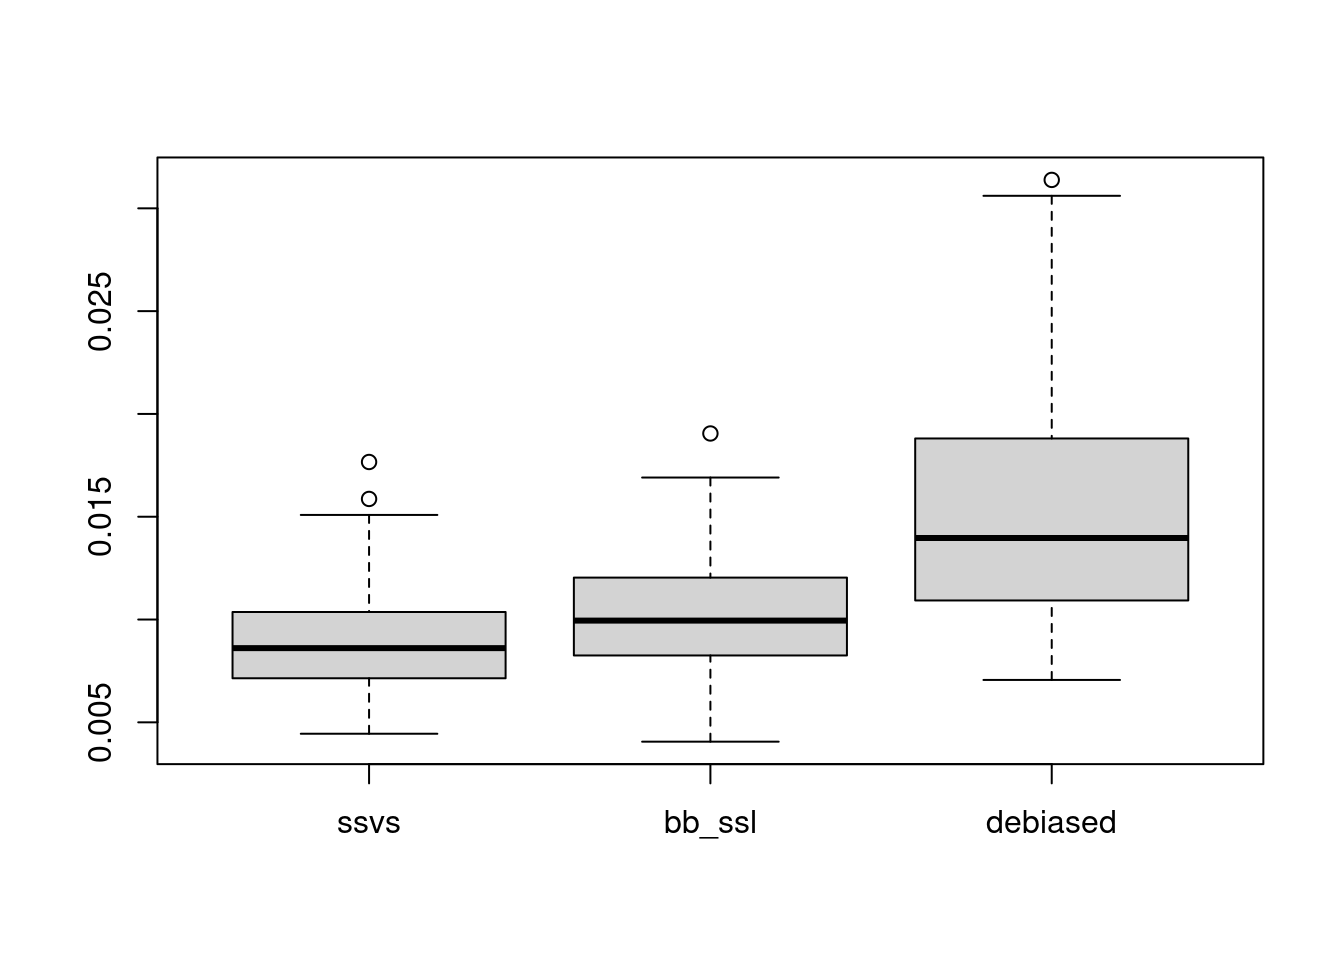
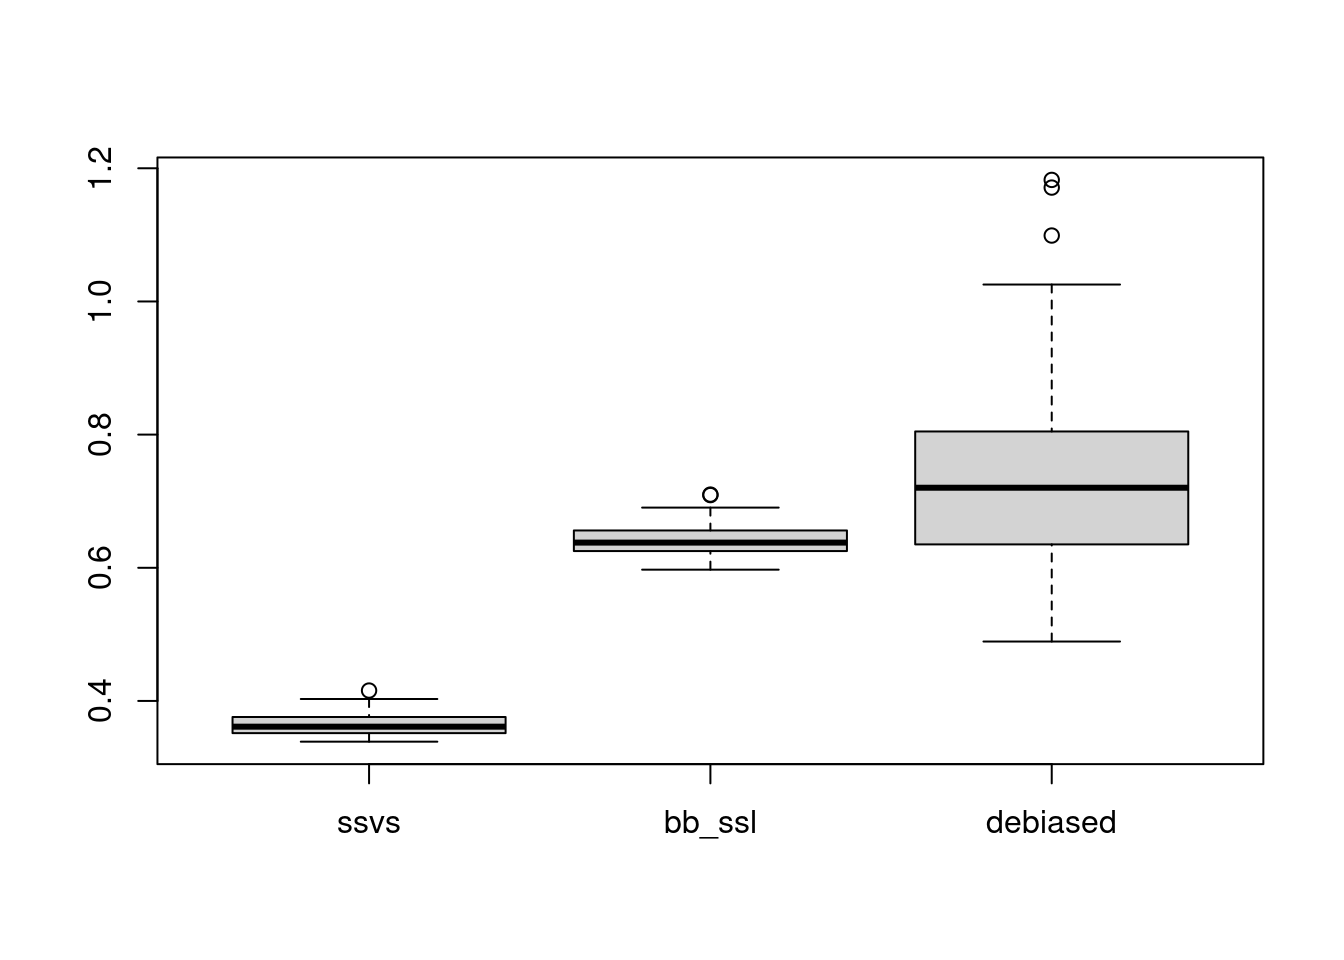
Build site.

diff --git a/docs/lfi_n50p50.html b/docs/lfi_n50p50.html
@@ -522,15 +522,15 @@ project makes it easier to run your code on other machines.</p>
 <div class="panel panel-default">
 <div class="panel-heading">
 <p class="panel-title">
-<a data-toggle="collapse" data-parent="#workflowr-checks" href="#strongRepositoryversionstrongahrefhttpsgithubcomDongyueXiemisctree42b1a00a3829b5e5572879320ccf9e3132ebcba6targetblank42b1a00a">
+<a data-toggle="collapse" data-parent="#workflowr-checks" href="#strongRepositoryversionstrongahrefhttpsgithubcomDongyueXiemisctreee8d25397c8f7465a43b43dfbc2cf54c3bbb4c490targetblanke8d2539a">
 <span class="glyphicon glyphicon-ok text-success"
 aria-hidden="true"></span> <strong>Repository version:</strong>
-<a href="https://github.com/DongyueXie/misc/tree/42b1a00a3829b5e5572879320ccf9e3132ebcba6" target="_blank">42b1a00</a>
+<a href="https://github.com/DongyueXie/misc/tree/e8d25397c8f7465a43b43dfbc2cf54c3bbb4c490" target="_blank">e8d2539</a>
 </a>
 </p>
 </div>
 <div
[2 lines of base64/hex data omitted]
 class="panel-collapse collapse">
 <div class="panel-body">
 <p>
@@ -540,7 +540,7 @@ reproducibility.
 </p>
 <p>
 The results in this page were generated with repository version
-<a href="https://github.com/DongyueXie/misc/tree/42b1a00a3829b5e5572879320ccf9e3132ebcba6" target="_blank">42b1a00</a>.
+<a href="https://github.com/DongyueXie/misc/tree/e8d25397c8f7465a43b43dfbc2cf54c3bbb4c490" target="_blank">e8d2539</a>.
 See the <em>Past versions</em> tab to see a history of the changes made
 to the R Markdown and HTML files.
 </p>
@@ -557,16 +557,15 @@ were generated:
 Ignored files:
     Ignored:    .Rhistory
     Ignored:    .Rproj.user/
+    Ignored:    code/sslasso_code/.DS_Store
+    Ignored:    code/sslasso_code/.Rapp.history
 
 Untracked files:
-    Untracked:  analysis/p50_n200_exp.Rmd
-    Untracked:  code/__MACOSX/
-    Untracked:  code/lfi.R
-    Untracked:  code/sslasso_code/
     Untracked:  output/lfi/
 
 Unstaged changes:
-    Modified:   analysis/spike_slab_sampling.ipynb
+    Modified:   analysis/index.Rmd
+    Modified:   analysis/lfi_n100p100.Rmd
 
 </code></pre>
 <p>
@@ -612,6 +611,40 @@ Message
 </tr>
 </thead>
 <tbody>
+<tr>
+<td>
+Rmd
+</td>
+<td>
+<a href="https://github.com/DongyueXie/misc/blob/e8d25397c8f7465a43b43dfbc2cf54c3bbb4c490/analysis/lfi_n50p50.Rmd" target="_blank">e8d2539</a>
+</td>
+<td>
+DongyueXie
+</td>
+<td>
+2023-02-10
+</td>
+<td>
+wflow_publish("analysis/lfi_n50p50.Rmd")
+</td>
+</tr>
+<tr>
+<td>
+html
+</td>
+<td>
+<a href="https://rawcdn.githack.com/DongyueXie/misc/f39c6b81568cccffa6c131d245c6b47b791a05e4/docs/lfi_n50p50.html" target="_blank">f39c6b8</a>
+</td>
+<td>
+DongyueXie
+</td>
+<td>
+2023-02-10
+</td>
+<td>
+Build site.
+</td>
+</tr>
 <tr>
 <td>
 Rmd
@@ -723,23 +756,21 @@ DongyueXie
 </div>
 </div>
 </div>
-<div id="mse" class="section level2">
-<h2>MSE</h2>
-<p>the mse of (posterior mean, and true beta)</p>
-<pre class="r"><code>mse = function(x,y){mean((x-y)^2)}
-
-calc_mse = function(res){
+<div id="ci-length" class="section level2">
+<h2>CI length</h2>
+<pre class="r"><code>get_ci_length = function(res){
   n_simu = length(res)
-  mse_all = c()
+  ci_length = c()
   for(i in 1:n_simu){
-    mse_all = rbind(mse_all,c(mse(res[[i]]$data$beta,colMeans(res[[i]]$fit_ssvs$beta_draws)),
-                              mse(res[[i]]$data$beta,colMeans(res[[i]]$fit_bb$beta)),
-                              mse(res[[i]]$data$beta,res[[i]]$fit_debiased$coef)))
+    ci_length = rbind(ci_length,c(mean(apply(res[[i]]$fit_ssvs$beta_draws,2,function(z){quantile(z,0.975)})-apply(res[[i]]$fit_ssvs$beta_draws,2,function(z){quantile(z,0.025)})),
+                                  mean(apply(res[[i]]$fit_bb$beta,2,function(z){quantile(z,0.975)})-apply(res[[i]]$fit_bb$beta,2,function(z){quantile(z,0.025)})),
+                                  mean(res[[i]]$fit_debiased$up.lim - res[[i]]$fit_debiased$low.lim)))
   }
-  colnames(mse_all) = c(&#39;ssvs&#39;,&#39;bb_ssl&#39;,&#39;debiased&#39;)
-  return(mse_all)
+    colnames(ci_length) = c(&#39;ssvs&#39;,&#39;bb_ssl&#39;,&#39;debiased&#39;)
+  return(ci_length)
 }
-boxplot(calc_mse(res$res))</code></pre>
+
+boxplot(get_ci_length(res$res))</code></pre>
 <p><img src="figure/lfi_n50p50.Rmd/unnamed-chunk-3-1.png" width="672" style="display: block; margin: auto;" /></p>
 <p>
 <button type="button" class="btn btn-default btn-xs btn-workflowr btn-workflowr-fig" data-toggle="collapse" data-target="#fig-unnamed-chunk-3-1">
@@ -778,6 +809,25 @@ DongyueXie
 </table>
 </div>
 </div>
+</div>
+<div id="mse" class="section level2">
+<h2>MSE</h2>
+<p>the mse of (posterior mean, and true beta)</p>
+<pre class="r"><code>mse = function(x,y){mean((x-y)^2)}
+
+calc_mse = function(res){
+  n_simu = length(res)
+  mse_all = c()
+  for(i in 1:n_simu){
+    mse_all = rbind(mse_all,c(mse(res[[i]]$data$beta,colMeans(res[[i]]$fit_ssvs$beta_draws)),
+                              mse(res[[i]]$data$beta,colMeans(res[[i]]$fit_bb$beta)),
+                              mse(res[[i]]$data$beta,res[[i]]$fit_debiased$coef)))
+  }
+  colnames(mse_all) = c(&#39;ssvs&#39;,&#39;bb_ssl&#39;,&#39;debiased&#39;)
+  return(mse_all)
+}
+boxplot(calc_mse(res$res))</code></pre>
+<p><img src="figure/lfi_n50p50.Rmd/unnamed-chunk-4-1.png" width="672" style="display: block; margin: auto;" /></p>
 <br>
 <p>
 <button type="button" class="btn btn-default btn-workflowr btn-workflowr-sessioninfo" data-toggle="collapse" data-target="#workflowr-sessioninfo" style="display: block;">
